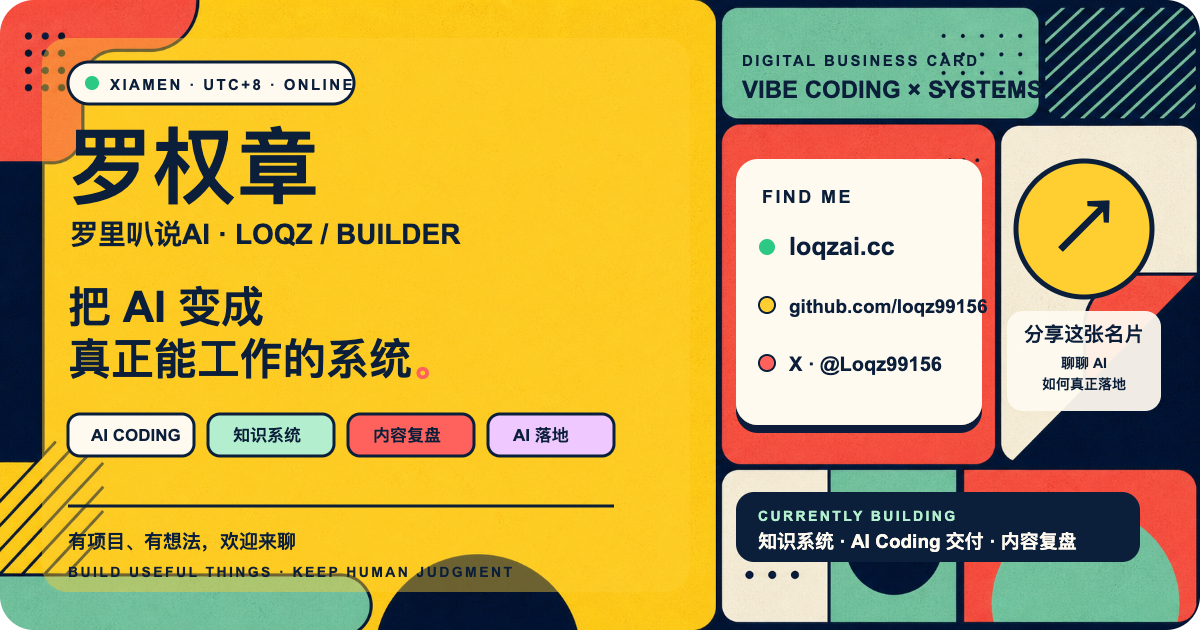
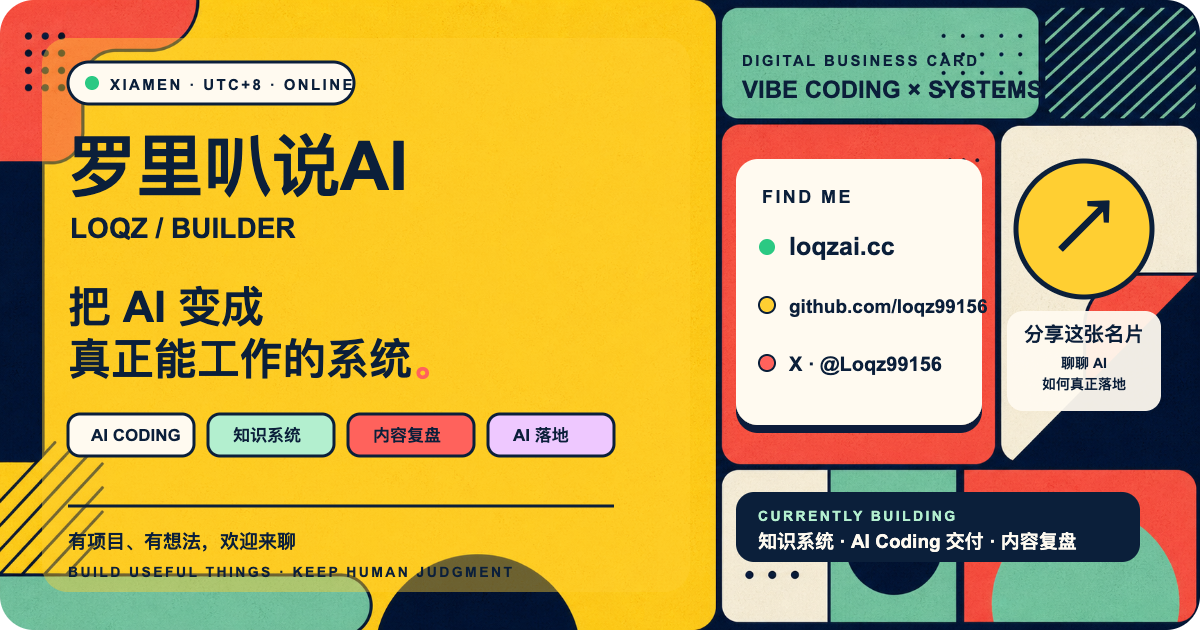
Keep the share card focused on the public creator identity
Constraint: The personal name should not appear on the shareable card.

Rejected: Leave the name in image metadata | the card should consistently present only the public identity.

Confidence: high

Scope-risk: narrow

Directive: Keep the share card branded as 罗里叭说AI and LOQZ / BUILDER.

Tested: 1200x630 Chrome render; visual inspection; exact source-text search; Markdown diff check.

Not-tested: WeChat QR integration pending the real QR image.

Changed region(s): [[0.0617, 0.181, 0.4008, 0.3921]]

diff --git a/README.md b/README.md
@@ -61,5 +61,5 @@
 </p>
 
 <a href="./assets/share-card.png">
-  <img src="./assets/share-card.png" alt="罗权章 · 罗里叭说AI 数字名片：把 AI 变成真正能工作的系统" width="100%">
+  <img src="./assets/share-card.png" alt="罗里叭说AI 数字名片：把 AI 变成真正能工作的系统" width="100%">
 </a>
